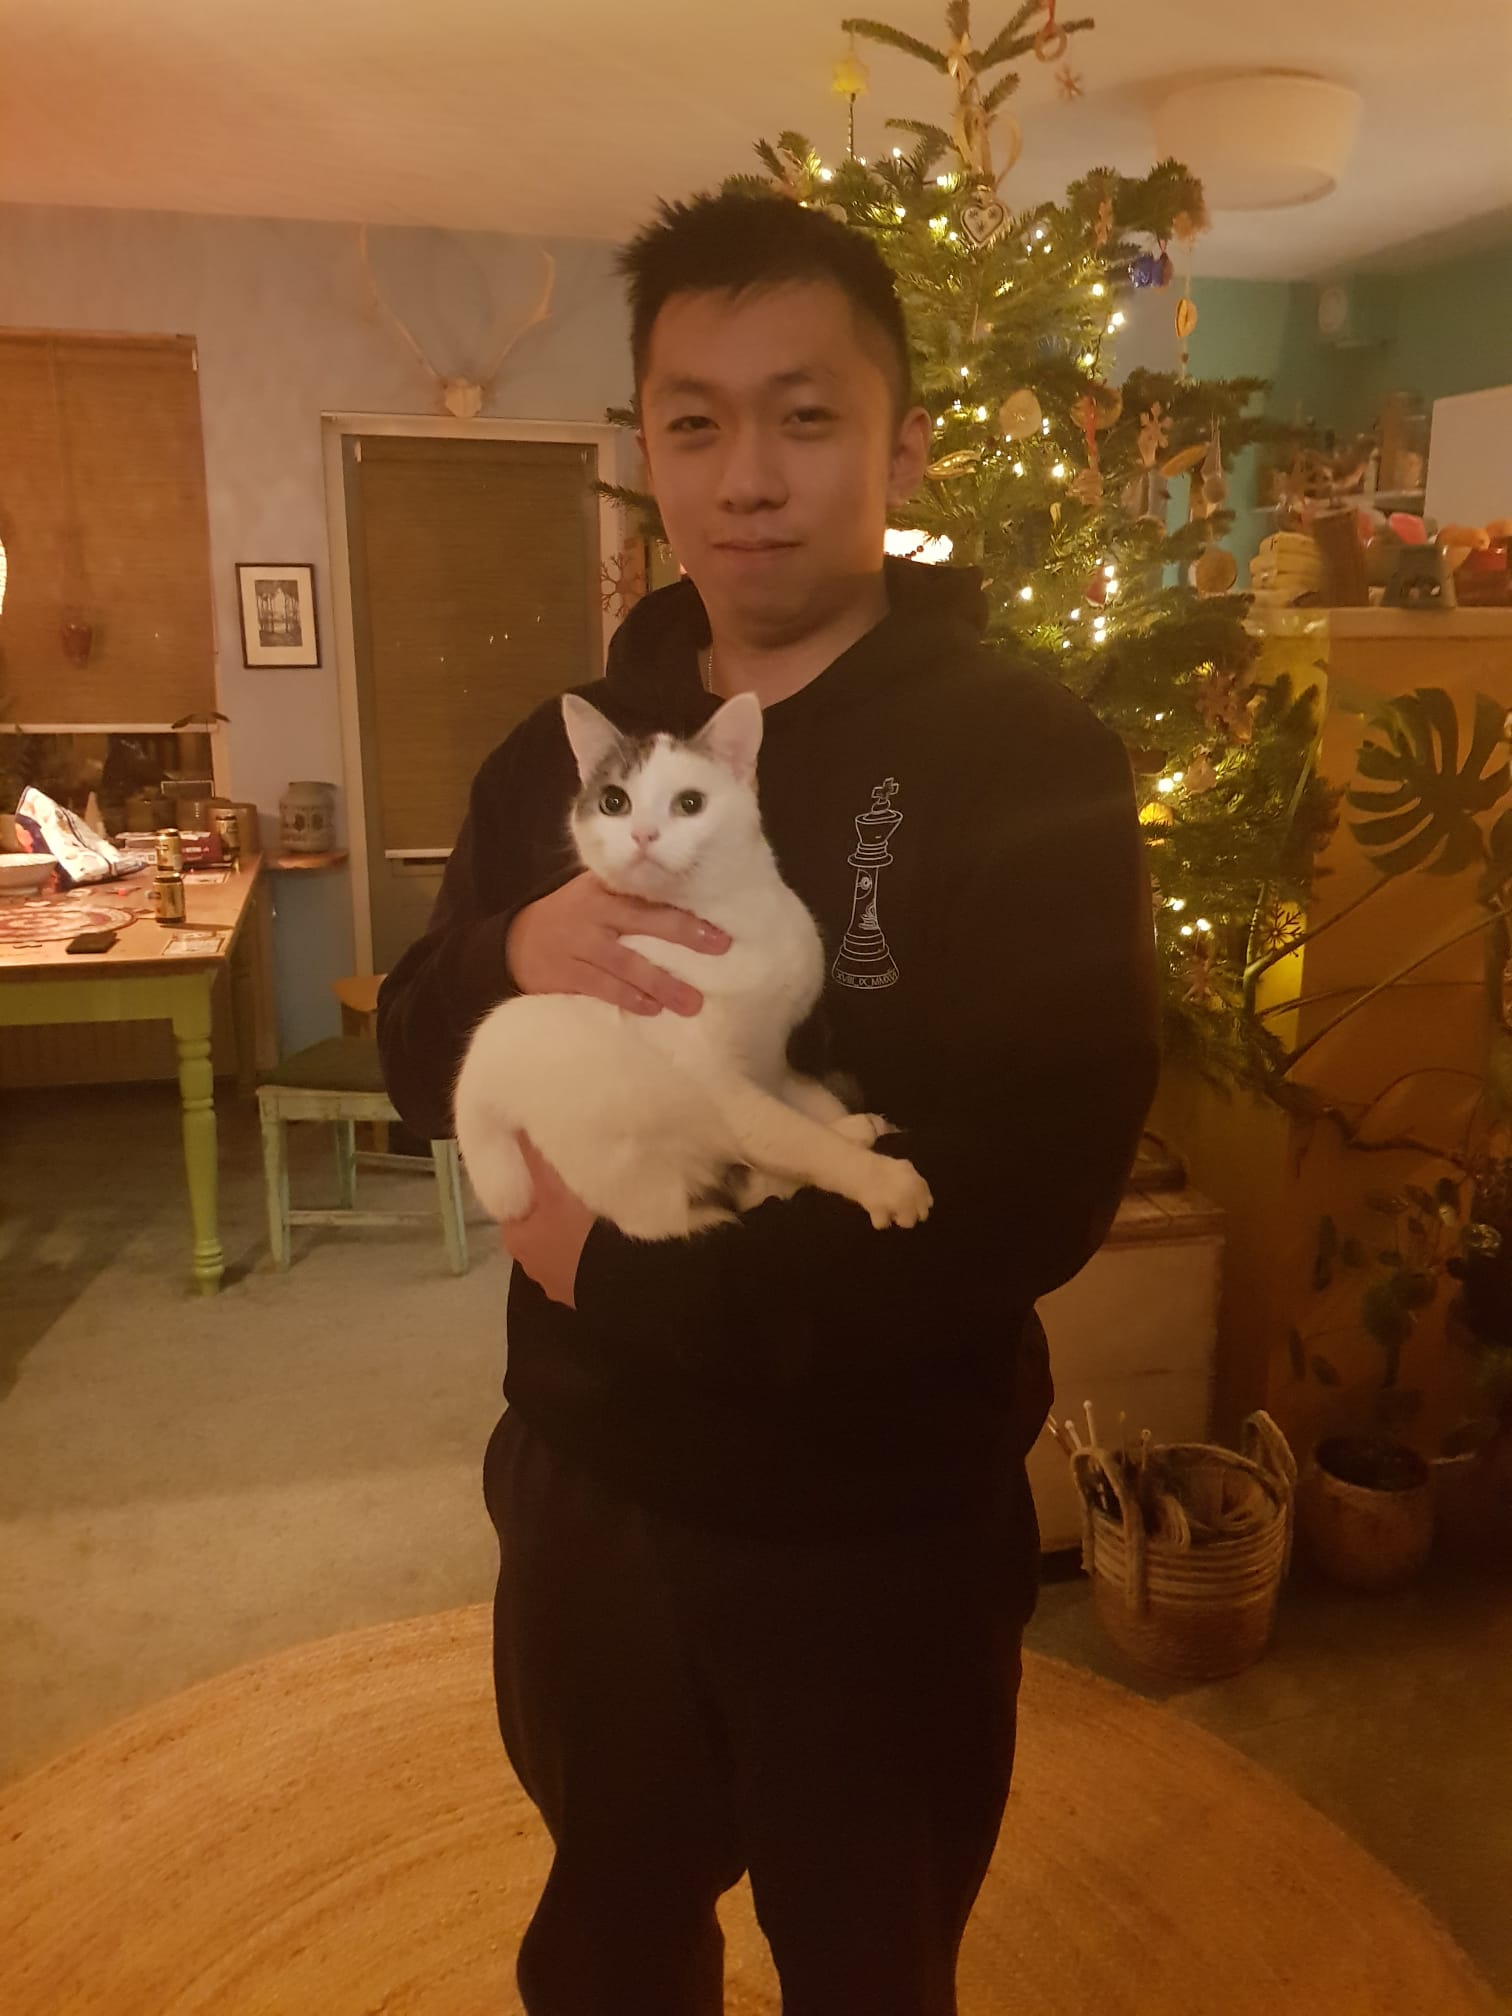
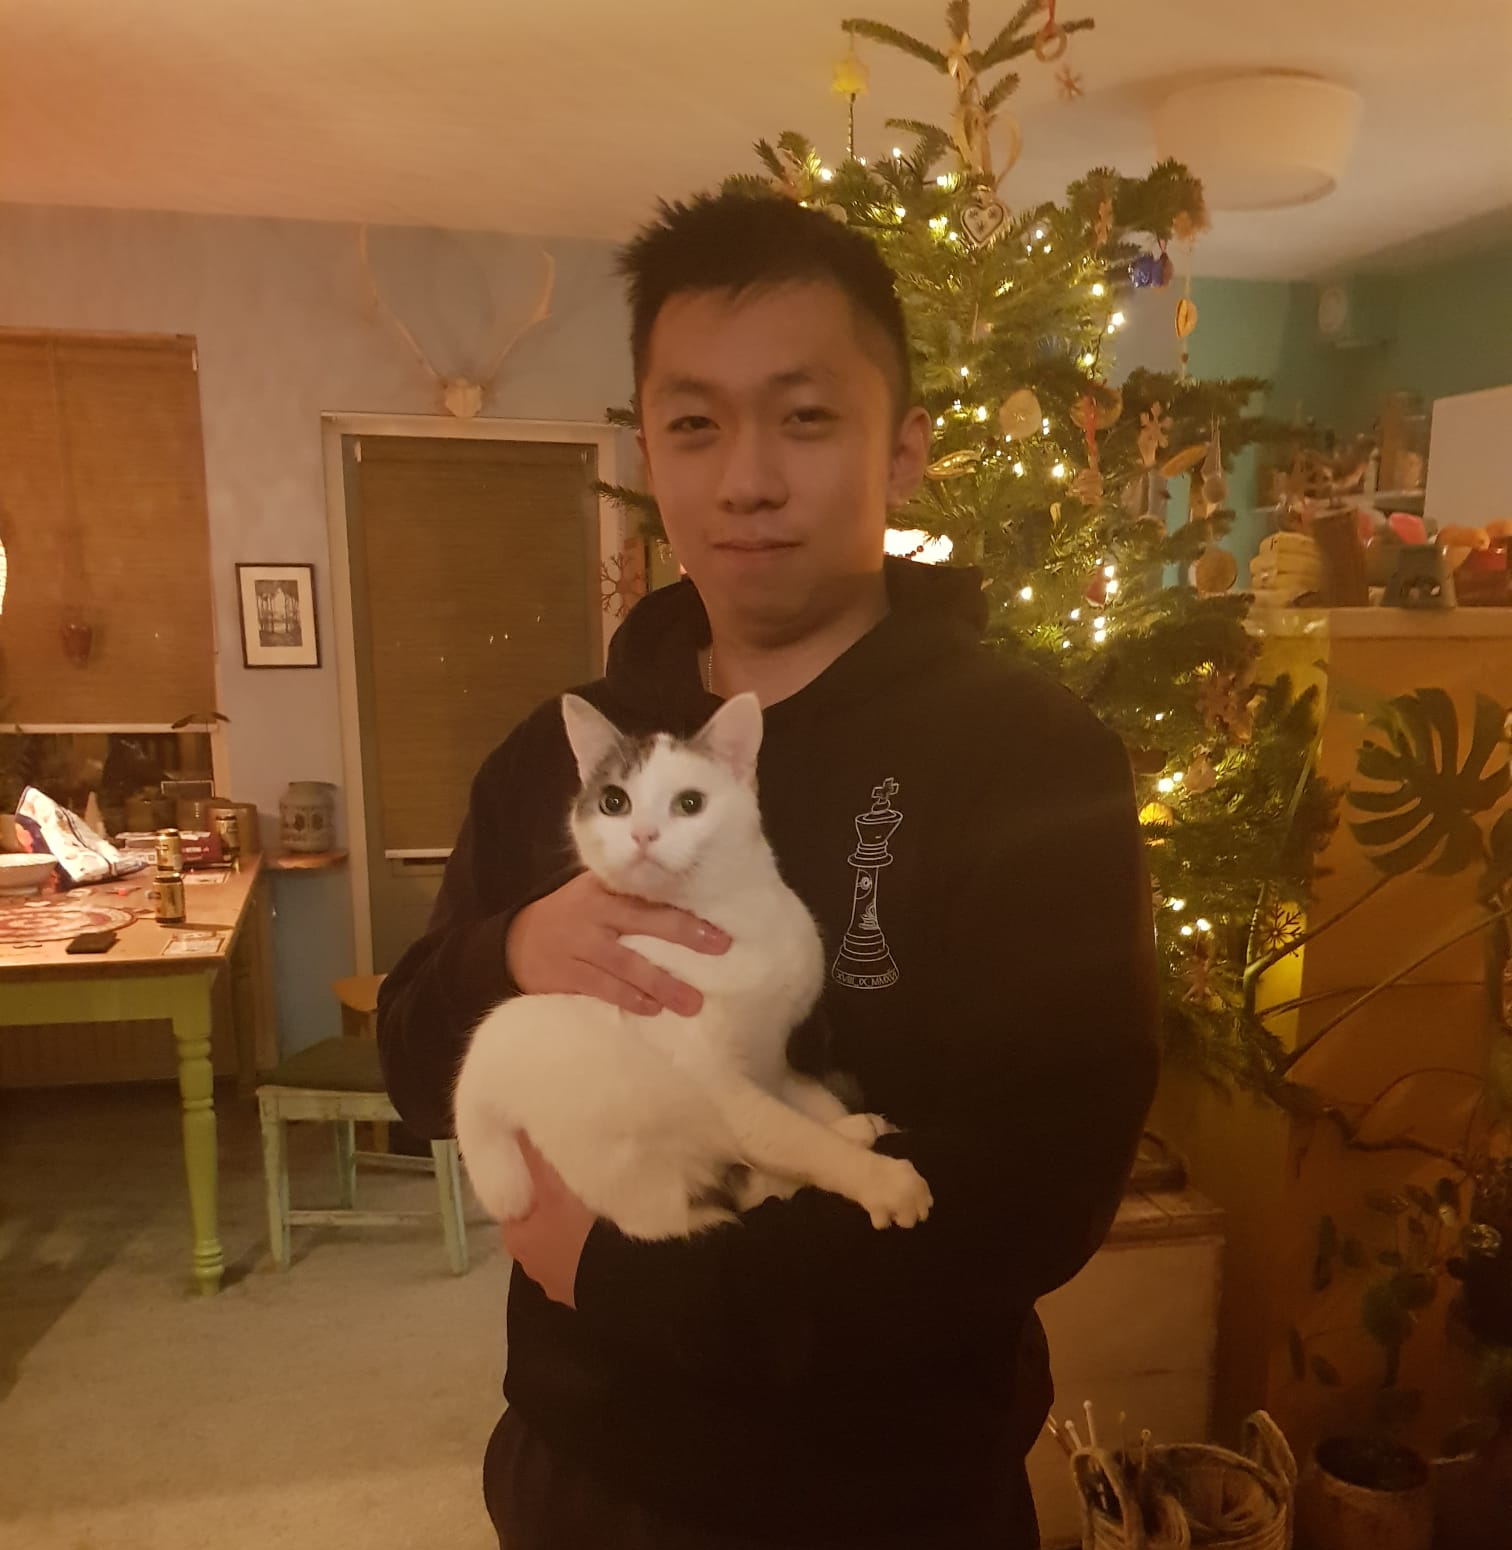
fixes carousel

diff --git a/src/main/resources/templates/fragments/home-page/carousel.html b/src/main/resources/templates/fragments/home-page/carousel.html
@@ -3,17 +3,19 @@
 <head>
 </head>
 <body>
-<div id="carouselExampleCaptions" class="carousel slide " data-bs-ride="carousel" th:fragment="carousel">
+<div id="carouselExampleCaptions" class="carousel slide " data-bs-ride="carousel" th:fragment="carousel" data-interval="10">
     <div class="carousel-inner">
         <div class="carousel-item active">
-            <img th:src="@{static/images/self_beach.png}" class="d-block w-100" alt="picture of myself on the beach">
+            <img th:src="@{static/images/self_beach.png}"  alt="picture of myself on the beach">
         </div>
         <div class="carousel-item">
-            <img th:src="@{static/images/self_cat.png}" class="d-block w-100" alt="picture of myself with a cat">
+            <img th:src="@{static/images/self_cat.png}"  alt="picture of myself with a cat">
         </div>
         <div class="carousel-item">
-            <img th:src="@{static/images/self_pieter.png}" class="d-block w-100"
-                 alt="picture of myself with Pieter Bijl">
+            <img th:src="@{static/images/self_pieter.png}" alt="picture of myself with Pieter Bijl">
+        </div>
+        <div class="carousel-item">
+            <img th:src="@{static/images/self_build.png}" alt="Picture of myself during house renovation">
         </div>
     </div>
 </div>

diff --git a/src/main/resources/static/style.css b/src/main/resources/static/style.css
@@ -15,11 +15,22 @@ a, u {
     padding-top: 50px;
     margin-top: -50px;
 }
-.carousel-item {
+.carousel-inner {
+  height: 0;
+  padding-bottom: 80%; /* aspect ratio */
+}
 
-  height: 35rem;
-  min-height: 80%;
-  background-size: cover;
+.carousel-item {
+  position: absolute !important;
+  top: 0;
+  right: 0;
+  bottom: 0;
+  left: 0;
+}
+
+.carousel-item img {
+  height: 100%;
+  object-fit: cover;
 }
 
 .formal-font{

diff --git a/src/main/resources/templates/fragments/general/navbar.html b/src/main/resources/templates/fragments/general/navbar.html
@@ -1,5 +1,5 @@
 <!DOCTYPE html>
-<html xmlns:th="http://www.thymeleaf.org">>
+<html xmlns:th="http://www.thymeleaf.org">
 <head>
 </head>
 <body>
